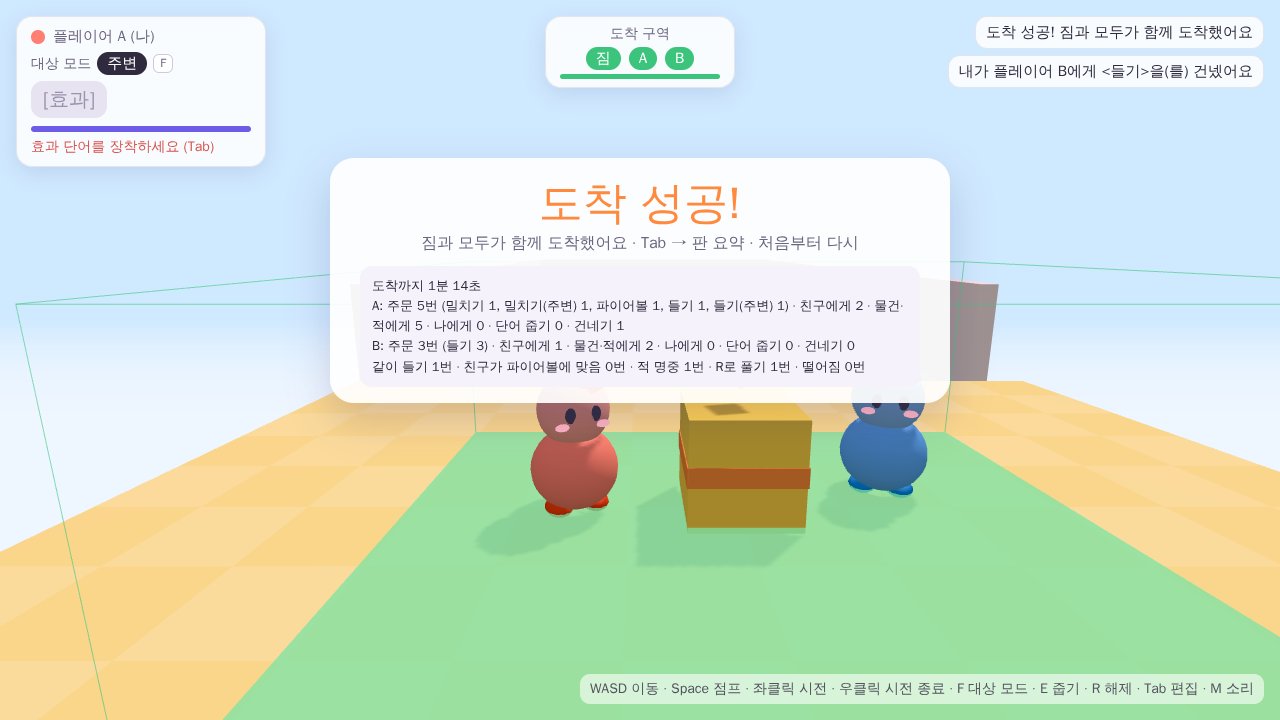
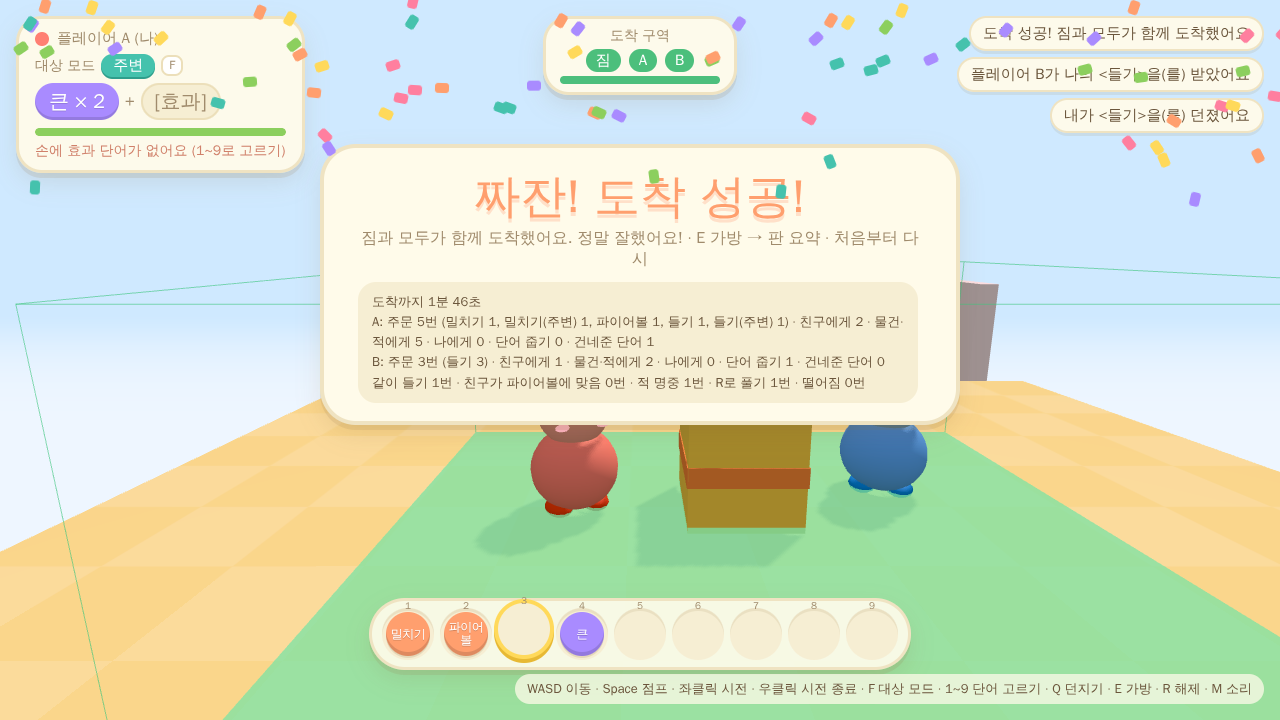
UI를 동물의 숲 스타일로: 크림색·둥글고 통통한 모양, 부드러운 말투
- 크림색 종이 패널·갈색 글씨·큰 둥근 모서리·통통한 버튼·말풍선 알림·노란 안내 띠
- 핫바·가방도 같은 톤(둥근 칸·둥근 단어 아이템, 마크 칸 구성·클릭 규칙은 그대로)
- 실패는 빨강 대신 살구색 "앗!", 새 단어를 주우면 칭찬, 도착하면 "짜잔!" + 꽃가루
- 첫 화면 문구를 친근하게, README·추가 요구사항 기록

Claude-Session: https://claude.ai/code/session_01KXHw84PPxeXVfj9vCymn7P

diff --git a/word-magic-coop/client/style.css b/word-magic-coop/client/style.css
@@ -1,59 +1,70 @@
+/* 동물의 숲 느낌: 크림색 종이, 갈색 글씨, 둥글고 통통한 모양, 부드러운 그림자. 실패도 겁주지 않게. */
 :root {
   --font: 'Jua', 'Apple SD Gothic Neo', 'Malgun Gothic', 'Noto Sans KR', 'WenQuanYi Zen Hei', system-ui, sans-serif;
-  --ink: #2f2a3d;
-  --muted: #6d6680;
-  --panel: rgba(255, 255, 255, 0.86);
-  --panel-border: rgba(70, 60, 110, 0.12);
-  --target: #9b7bff;
-  --action: #ff9a4d;
+  --ink: #6b563c;          /* 갈색 글씨 */
+  --muted: #a08b6c;
+  --cream: #fffbea;        /* 종이 */
+  --cream-2: #f6eed3;
+  --line: #ecdfba;
+  --panel: rgba(255, 251, 234, 0.95);
+  --panel-border: #efe3c2;
+  --shadow: 0 5px 0 rgba(150, 120, 70, 0.14), 0 10px 24px rgba(120, 90, 40, 0.12);
+  --teal: #45c2ad;
+  --teal-dark: #2f9e8c;
+  --yellow: #ffd95a;
+  --yellow-dark: #e7b934;
+  --leaf: #8ccf5e;
+  --target: #a98bff;       /* 수식 단어 */
+  --action: #ff9f6e;       /* 효과 단어 */
   --a: #ff7f73;
   --b: #5fa8ff;
-  --ok: #3cc47c;
-  --bad: #ff5a5a;
+  --ok: #4cbf7c;
+  --bad: #f0907c;          /* 빨강 대신 부드러운 살구색 */
 }
 
 * { box-sizing: border-box; }
-html, body { margin: 0; height: 100%; overflow: hidden; background: #cfe9ff; color: var(--ink); font-family: var(--font); }
+html, body { margin: 0; height: 100%; overflow: hidden; background: #bfe8f5; color: var(--ink); font-family: var(--font); }
 canvas#view { position: fixed; inset: 0; width: 100%; height: 100%; display: block; }
 [hidden] { display: none !important; }
 
 button {
-  font: inherit; font-size: 17px; border: 0; border-radius: 14px; padding: 10px 18px; cursor: pointer;
-  background: #6c5ce7; color: #fff; box-shadow: 0 3px 0 rgba(0, 0, 0, 0.15);
+  font: inherit; font-size: 17px; border: 0; border-radius: 999px; padding: 10px 22px; cursor: pointer;
+  background: var(--teal); color: #fff; box-shadow: 0 4px 0 var(--teal-dark); transition: transform 0.12s ease, box-shadow 0.12s ease;
 }
-button:hover { filter: brightness(1.08); }
-button:disabled { opacity: 0.5; cursor: default; }
-button.secondary { background: #ffffff; color: #6c5ce7; box-shadow: inset 0 0 0 2px #6c5ce7; }
+button:hover { transform: translateY(-2px) scale(1.03); }
+button:active { transform: translateY(2px); box-shadow: 0 2px 0 var(--teal-dark); }
+button:disabled { opacity: 0.5; cursor: default; transform: none; }
+button.secondary { background: var(--yellow); color: var(--ink); box-shadow: 0 4px 0 var(--yellow-dark); }
 .lobby-actions { display: flex; gap: 10px; justify-content: center; flex-wrap: wrap; }
 .join-form { display: flex; gap: 8px; justify-content: center; align-items: center; flex-wrap: wrap; margin-top: 14px; font-size: 15px; color: var(--muted); }
-.join-form input { font: inherit; font-size: 17px; width: 9.5em; padding: 8px 12px; border-radius: 12px; border: 2px solid #d9d2ee; background: #fff; color: var(--ink); text-align: center; letter-spacing: 0.15em; }
-.join-form input:focus { outline: none; border-color: #6c5ce7; }
-button:focus-visible, input:focus-visible { outline: 3px solid rgba(108, 92, 231, 0.45); outline-offset: 2px; }
-.room-info { margin-top: 16px; padding: 12px 14px; border-radius: 16px; background: #f5f2fb; display: flex; flex-direction: column; gap: 6px; }
+.join-form input { font: inherit; font-size: 17px; width: 9.5em; padding: 8px 12px; border-radius: 999px; border: 3px solid var(--line); background: #fff; color: var(--ink); text-align: center; letter-spacing: 0.15em; }
+.join-form input:focus { outline: none; border-color: var(--teal); }
+button:focus-visible, input:focus-visible { outline: 3px solid rgba(69, 194, 173, 0.5); outline-offset: 3px; }
+.room-info { margin-top: 16px; padding: 12px 14px; border-radius: 20px; background: var(--cream-2); display: flex; flex-direction: column; gap: 6px; }
 .room-code { font-size: 16px; color: var(--muted); }
 .room-code strong { font-size: 30px; color: var(--ink); letter-spacing: 0.2em; margin-left: 6px; font-family: ui-monospace, Menlo, Consolas, monospace; }
 .room-link { display: flex; gap: 6px; align-items: center; justify-content: center; flex-wrap: wrap; min-width: 0; }
 .room-link code { font-size: 13px; background: #fff; padding: 4px 8px; border-radius: 8px; overflow-wrap: anywhere; min-width: 0; user-select: all; }
-button.ghost { background: transparent; color: var(--muted); box-shadow: none; padding: 4px 10px; font-size: 14px; }
-button.danger { background: #ff7b7b; }
+button.ghost { background: var(--cream-2); color: var(--ink); box-shadow: 0 3px 0 var(--line); padding: 4px 12px; font-size: 14px; }
+button.danger { background: #f6a48f; box-shadow: 0 4px 0 #d9826d; }
 
-.screen { position: fixed; inset: 0; display: grid; place-items: center; padding: 16px; background: linear-gradient(180deg, rgba(207, 233, 255, 0.6), rgba(255, 236, 246, 0.75)); }
-.card { background: var(--panel); border: 1px solid var(--panel-border); border-radius: 24px; padding: 28px 30px; width: min(460px, 100%); box-shadow: 0 20px 50px rgba(60, 50, 120, 0.18); text-align: center; }
+.screen { position: fixed; inset: 0; display: grid; place-items: center; padding: 16px; background: radial-gradient(circle at 20% 10%, rgba(255, 255, 255, 0.55), transparent 40%), linear-gradient(180deg, rgba(191, 232, 245, 0.55), rgba(220, 244, 200, 0.7)); }
+.card { background: var(--cream); border: 4px solid var(--panel-border); border-radius: 36px; padding: 28px 30px; width: min(470px, 100%); box-shadow: var(--shadow); text-align: center; }
 .card.wide { width: min(640px, 100%); max-height: calc(100vh - 32px); overflow-y: auto; }
-.card h1 { margin: 0 0 4px; font-size: 34px; letter-spacing: -0.5px; }
+.card h1 { margin: 0 0 4px; font-size: 36px; letter-spacing: -0.5px; color: var(--ink); text-shadow: 0 3px 0 #f3e3b6; }
 .card h2 { margin: 0 0 4px; font-size: 26px; }
 .card h3 { margin: 18px 0 8px; font-size: 18px; text-align: left; }
 .sub { margin: 0 0 18px; color: var(--muted); font-size: 15px; }
 .status { font-size: 17px; min-height: 1.4em; }
 .note { color: var(--muted); font-size: 14px; }
 .seats { display: flex; justify-content: center; gap: 8px; margin-bottom: 12px; flex-wrap: wrap; }
-.seat { display: flex; align-items: center; gap: 6px; padding: 6px 12px; border-radius: 999px; background: #f2eefb; color: var(--muted); }
-.seat .dot { width: 10px; height: 10px; border-radius: 50%; background: #cfc8e0; }
+.seat { display: flex; align-items: center; gap: 6px; padding: 6px 12px; border-radius: 999px; background: var(--cream-2); color: var(--muted); }
+.seat .dot { width: 10px; height: 10px; border-radius: 50%; background: var(--line); }
 .seat.on .dot { background: var(--seat); }
 .seat.on { color: var(--ink); }
-.seat.me { outline: 2px solid #6c5ce7; }
+.seat.me { outline: 3px solid var(--teal); }
 .address { margin-top: 14px; font-size: 14px; color: var(--muted); line-height: 1.6; }
-.address code { font-family: ui-monospace, Menlo, Consolas, monospace; background: #f2eefb; padding: 2px 6px; border-radius: 6px; color: var(--ink); user-select: all; }
+.address code { font-family: ui-monospace, Menlo, Consolas, monospace; background: var(--cream-2); padding: 2px 6px; border-radius: 6px; color: var(--ink); user-select: all; }
 .howto { margin-top: 16px; text-align: left; font-size: 14px; color: var(--muted); }
 .howto summary { cursor: pointer; }
 .howto td { padding: 3px 8px 3px 0; vertical-align: top; }
@@ -63,20 +74,20 @@ button.danger { background: #ff7b7b; }
 
 /* HUD */
 #hud { position: fixed; inset: 0; pointer-events: none; }
-.panel { position: absolute; background: var(--panel); border: 1px solid var(--panel-border); border-radius: 16px; padding: 10px 14px; box-shadow: 0 6px 20px rgba(60, 50, 120, 0.12); }
+.panel { position: absolute; background: var(--panel); border: 3px solid var(--panel-border); border-radius: 26px; padding: 10px 16px; box-shadow: var(--shadow); }
 #spell { left: 16px; top: 16px; min-width: 250px; }
 .who { display: flex; align-items: center; gap: 8px; font-size: 15px; color: var(--muted); margin-bottom: 6px; }
 .chip { width: 14px; height: 14px; border-radius: 50%; display: inline-block; }
 .sentence { display: flex; gap: 6px; flex-wrap: wrap; }
-.word { display: inline-flex; align-items: center; padding: 5px 12px; border-radius: 12px; font-size: 20px; color: #fff; min-height: 34px; }
+.word { display: inline-flex; align-items: center; padding: 5px 14px; border-radius: 999px; font-size: 20px; color: #fff; min-height: 34px; box-shadow: inset 0 -3px 0 rgba(0, 0, 0, 0.12); text-shadow: 0 1px 0 rgba(0, 0, 0, 0.12); }
 .word.target, .word.mod { background: var(--target); }
 .word.action { background: var(--action); }
-.word.empty { background: #e7e3f1; color: #9a93ad; }
+.word.empty { background: var(--cream-2); color: var(--muted); box-shadow: inset 0 0 0 2px var(--line); text-shadow: none; }
 .word.big { font-size: 24px; padding: 8px 16px; min-width: 120px; justify-content: center; }
-.cooldown { margin-top: 8px; height: 6px; border-radius: 3px; background: #ece8f5; overflow: hidden; }
+.cooldown { margin-top: 8px; height: 8px; border-radius: 999px; background: var(--cream-2); overflow: hidden; }
 .mode-line { display: flex; align-items: center; gap: 6px; font-size: 14px; color: var(--muted); margin-bottom: 6px; }
-.mode-chip { background: #2f2a3d; color: #fff; border-radius: 999px; padding: 2px 10px; font-size: 15px; }
-.key { border: 1px solid #cfc8e0; border-radius: 6px; padding: 0 6px; font-size: 12px; color: var(--muted); background: #fff; }
+.mode-chip { background: var(--teal); color: #fff; border-radius: 999px; padding: 2px 12px; font-size: 15px; box-shadow: 0 2px 0 var(--teal-dark); }
+.key { border: 2px solid var(--line); border-radius: 8px; padding: 0 6px; font-size: 12px; color: var(--muted); background: #fff; }
 .plus-sm { align-self: center; color: var(--muted); font-size: 16px; }
 .mods { display: flex; flex-direction: column; gap: 6px; min-width: 180px; }
 .mod-row { display: flex; align-items: center; gap: 6px; pointer-events: auto; }
@@ -85,91 +96,98 @@ button.danger { background: #ff7b7b; }
 .mod-count small { color: var(--muted); font-size: 12px; }
 .mod-row button { font-size: 18px; padding: 2px 10px; }
 .spell-preview { margin: 12px 0 0; font-size: 16px; }
-#cooldown-bar { height: 100%; width: 0%; background: #6c5ce7; }
+#cooldown-bar { height: 100%; width: 0%; background: var(--leaf); border-radius: 999px; }
 .preview-note { margin-top: 6px; font-size: 14px; color: var(--muted); min-height: 1.2em; }
 .preview-note.ok { color: var(--ok); }
-.preview-note.bad { color: #d9534f; }
+.preview-note.bad { color: #d0806a; }
 
 #goal { top: 16px; left: 50%; transform: translateX(-50%); text-align: center; padding: 8px 14px; }
 .goal-title { font-size: 14px; color: var(--muted); }
 .goal-items { display: flex; gap: 8px; justify-content: center; margin: 4px 0; }
-.goal-items span { padding: 2px 10px; border-radius: 999px; background: #eee9f7; color: #9a93ad; font-size: 15px; }
+.goal-items span { padding: 2px 10px; border-radius: 999px; background: var(--cream-2); color: var(--muted); font-size: 15px; }
 .goal-items span.in { background: var(--ok); color: #fff; }
-.goal-bar { height: 5px; width: 160px; border-radius: 3px; background: #ece8f5; overflow: hidden; }
+.goal-bar { height: 8px; width: 160px; border-radius: 999px; background: var(--cream-2); overflow: hidden; }
 #goal-fill { height: 100%; width: 0%; background: var(--ok); }
-#guide { position: absolute; top: 104px; left: 50%; transform: translateX(-50%); background: rgba(47, 42, 61, 0.82); color: #fff; padding: 7px 14px; border-radius: 999px; font-size: 15px; white-space: nowrap; }
-#guide .key { margin-left: 6px; background: rgba(255, 255, 255, 0.15); color: #fff; border-color: rgba(255, 255, 255, 0.35); }
+#guide { position: absolute; top: 108px; left: 50%; transform: translateX(-50%); background: var(--yellow); color: var(--ink); padding: 8px 18px 8px 34px; border-radius: 999px; font-size: 16px; white-space: nowrap; box-shadow: 0 4px 0 var(--yellow-dark), 0 10px 20px rgba(120, 90, 40, 0.15); animation: bob 2.4s ease-in-out infinite; }
+#guide::before { content: ''; position: absolute; left: 12px; top: 50%; width: 14px; height: 14px; margin-top: -7px; background: var(--leaf); border-radius: 0 70% 0 70%; transform: rotate(-20deg); }
+#guide .key { margin-left: 6px; border-color: var(--yellow-dark); background: #fff7cf; }
 
 #log { position: absolute; right: 16px; top: 16px; margin: 0; padding: 0; list-style: none; width: 320px; display: flex; flex-direction: column; gap: 6px; align-items: flex-end; }
-#log li { background: var(--panel); border: 1px solid var(--panel-border); border-radius: 12px; padding: 6px 10px; font-size: 15px; animation: fadein 0.2s ease; transition: opacity 0.6s; }
+#log li { background: var(--panel); border: 2px solid var(--panel-border); border-radius: 18px; padding: 6px 12px; font-size: 15px; box-shadow: 0 3px 0 rgba(150, 120, 70, 0.12); animation: fadein 0.25s ease; transition: opacity 0.6s; }
 #log li.old { opacity: 0; }
 
-#crosshair { position: absolute; left: 50%; top: 50%; width: 18px; height: 18px; margin: -9px 0 0 -9px; border-radius: 50%; border: 3px solid rgba(255, 255, 255, 0.95); box-shadow: 0 0 0 2px rgba(40, 30, 70, 0.35); }
+#crosshair { position: absolute; left: 50%; top: 50%; width: 18px; height: 18px; margin: -9px 0 0 -9px; border-radius: 50%; border: 3px solid rgba(255, 255, 255, 0.95); box-shadow: 0 0 0 2px rgba(107, 86, 60, 0.35); transition: transform 0.12s ease; }
 #crosshair.ok { border-color: #ffe066; transform: scale(1.25); }
 #crosshair.bad { border-color: var(--bad); }
-#crosshair.blocked { border-color: #b8b2c8; }
+#crosshair.blocked { border-color: #d6cbb0; }
 #crosshair.fire { border-color: #ff8a3d; }
 
 #badges { position: absolute; left: 16px; bottom: 16px; display: flex; gap: 8px; }
-/* 핫바(마인크래프트식, 화면 아래 9칸) */
-#hotbar { position: absolute; left: 50%; bottom: 52px; transform: translateX(-50%); display: flex; gap: 0; padding: 3px; background: rgba(30, 28, 36, 0.55); border: 2px solid rgba(20, 18, 26, 0.7); border-radius: 4px; }
-#hotbar .mc-slot { width: 54px; height: 54px; background: rgba(139, 139, 139, 0.55); }
-#hotbar .mc-slot.sel { outline: 3px solid #fff; outline-offset: -1px; z-index: 1; }
+/* 핫바: 마인크래프트처럼 9칸, 모양은 동숲처럼 둥글고 통통하게 */
+#hotbar { position: absolute; left: 50%; bottom: 50px; transform: translateX(-50%); display: flex; gap: 6px; padding: 7px 10px; background: rgba(255, 251, 234, 0.92); border: 3px solid var(--panel-border); border-radius: 999px; box-shadow: var(--shadow); }
+#hotbar .mc-slot { width: 52px; height: 52px; border-radius: 50%; }
+#hotbar .mc-slot.sel { box-shadow: 0 0 0 4px var(--yellow), 0 4px 0 4px var(--yellow-dark); transform: translateY(-5px); z-index: 1; }
 
-/* 마인크래프트식 칸·아이템 */
-.mc-slot { position: relative; width: 52px; height: 52px; box-sizing: border-box; background: #8b8b8b; border: 2px solid; border-color: #373737 #fff #fff #373737; display: grid; place-items: center; user-select: none; }
-.mc-slot.hover { background: #a9a9a9; }
-.mc-slot.hand { border-color: #373737 #ffe066 #ffe066 #373737; }
-.mc-item { position: relative; width: 42px; height: 42px; border-radius: 6px; display: grid; place-items: center; color: #fff; font-size: 12px; font-weight: 700; line-height: 1.05; text-align: center; letter-spacing: -0.5px; box-shadow: inset -2px -2px 0 rgba(0, 0, 0, 0.25), inset 2px 2px 0 rgba(255, 255, 255, 0.35); pointer-events: none; }
+/* 칸·단어 아이템(가방·핫바 공용) */
+.mc-slot { position: relative; width: 52px; height: 52px; box-sizing: border-box; background: var(--cream-2); border-radius: 16px; box-shadow: inset 0 3px 0 rgba(150, 120, 70, 0.12); display: grid; place-items: center; user-select: none; transition: transform 0.12s ease, background 0.12s; }
+.mc-slot.hover { background: #fff2b8; transform: scale(1.06); }
+.mc-slot.hand { box-shadow: inset 0 0 0 3px var(--yellow); }
+.mc-item { position: relative; width: 44px; height: 44px; border-radius: 50%; display: grid; place-items: center; color: #fff; font-size: 12px; line-height: 1.05; text-align: center; letter-spacing: -0.5px; text-shadow: 0 1px 0 rgba(0, 0, 0, 0.18); box-shadow: inset 0 -4px 0 rgba(0, 0, 0, 0.13), 0 2px 0 rgba(150, 120, 70, 0.18); pointer-events: none; }
 .mc-item.effect { background: var(--action); }
 .mc-item.mod { background: var(--target); }
-.mc-count { position: absolute; right: -3px; bottom: -4px; font-size: 15px; font-weight: 800; color: #fff; text-shadow: 2px 2px 0 #3f3f3f; }
-.mc-num { position: absolute; left: 3px; top: 1px; font-size: 10px; font-weight: 700; color: rgba(255, 255, 255, 0.85); text-shadow: 1px 1px 0 #3f3f3f; pointer-events: none; }
-.badge { background: var(--panel); border-radius: 999px; padding: 6px 12px; font-size: 15px; border: 1px solid var(--panel-border); }
+.mc-count { position: absolute; right: -6px; bottom: -5px; min-width: 20px; height: 20px; padding: 0 5px; box-sizing: border-box; border-radius: 999px; background: #fff; color: var(--ink); font-size: 13px; line-height: 20px; text-shadow: none; box-shadow: 0 2px 0 var(--line); }
+.mc-num { position: absolute; left: 50%; top: -9px; transform: translateX(-50%); font-size: 10px; color: var(--muted); pointer-events: none; }
+.badge { background: var(--panel); border-radius: 999px; padding: 6px 14px; font-size: 15px; border: 2px solid var(--panel-border); box-shadow: 0 3px 0 rgba(150, 120, 70, 0.12); }
 .badge.float { color: #1a8fb5; }
-.badge.shield { color: #6c5ce7; }
+.badge.shield { color: #7a62d6; }
 .badge.ext { color: #d9731f; }
 
 #prompt { position: absolute; left: 50%; top: calc(50% + 46px); transform: translateX(-50%); background: rgba(47, 42, 61, 0.78); color: #fff; padding: 6px 14px; border-radius: 999px; font-size: 16px; opacity: 0; transition: opacity 0.15s; white-space: nowrap; }
 #prompt.show { opacity: 1; }
-#toast { position: absolute; left: 50%; bottom: 134px; transform: translateX(-50%); background: rgba(255, 255, 255, 0.95); color: #c0392b; padding: 8px 16px; border-radius: 999px; font-size: 17px; opacity: 0; transition: opacity 0.2s; white-space: nowrap; box-shadow: 0 4px 16px rgba(0, 0, 0, 0.12); }
-#toast.show { opacity: 1; }
-#toast.info { color: var(--ink); }
-#keys { position: absolute; right: 16px; bottom: 16px; font-size: 14px; color: rgba(47, 42, 61, 0.8); background: rgba(255, 255, 255, 0.6); padding: 6px 10px; border-radius: 10px; }
-#lock-hint { position: absolute; left: 50%; top: 66%; transform: translateX(-50%); background: rgba(108, 92, 231, 0.9); color: #fff; padding: 10px 18px; border-radius: 999px; font-size: 17px; }
-#clear-banner { position: absolute; left: 50%; top: 22%; transform: translateX(-50%); text-align: center; background: rgba(255, 255, 255, 0.92); padding: 16px 30px; border-radius: 24px; box-shadow: 0 16px 40px rgba(60, 50, 120, 0.2); animation: pop 0.4s ease; }
-#clear-banner .big { font-size: 44px; color: #ff8a3d; }
+/* 말풍선 알림: 실패도 빨강 대신 부드럽게 */
+#toast { position: absolute; left: 50%; bottom: 142px; transform: translateX(-50%) translateY(6px); background: #fff; color: #c46f58; padding: 10px 20px; border-radius: 22px; font-size: 17px; opacity: 0; transition: opacity 0.2s, transform 0.2s; white-space: nowrap; border: 3px solid #f6d9cf; box-shadow: var(--shadow); }
+#toast::after { content: ''; position: absolute; left: 50%; bottom: -11px; width: 16px; height: 16px; margin-left: -8px; background: #fff; border-right: 3px solid #f6d9cf; border-bottom: 3px solid #f6d9cf; transform: rotate(45deg); }
+#toast.show { opacity: 1; transform: translateX(-50%) translateY(0); }
+#toast.info { color: var(--ink); border-color: var(--panel-border); }
+#toast.info::after { border-color: var(--panel-border); }
+#keys { position: absolute; right: 16px; bottom: 16px; font-size: 13px; color: var(--ink); background: rgba(255, 251, 234, 0.75); padding: 6px 12px; border-radius: 999px; }
+#lock-hint { position: absolute; left: 50%; top: 66%; transform: translateX(-50%); background: var(--teal); color: #fff; padding: 10px 22px; border-radius: 999px; font-size: 17px; box-shadow: 0 4px 0 var(--teal-dark); animation: bob 2s ease-in-out infinite; }
+#clear-banner { position: absolute; left: 50%; top: 20%; transform: translateX(-50%); text-align: center; background: var(--cream); border: 4px solid var(--panel-border); padding: 18px 34px; border-radius: 36px; box-shadow: var(--shadow); animation: pop 0.45s cubic-bezier(0.34, 1.56, 0.64, 1); }
+#clear-banner .big { font-size: 46px; color: #ff9f6e; text-shadow: 0 4px 0 #ffe0c9; }
 #clear-banner .small { font-size: 16px; color: var(--muted); }
-#clear-summary { margin: 12px 0 0; padding: 10px 12px; max-width: 560px; text-align: left; font-family: inherit; font-size: 13px; line-height: 1.55; color: var(--ink); background: #f5f2fb; border-radius: 12px; white-space: pre-wrap; }
+#clear-summary { margin: 12px 0 0; padding: 10px 14px; max-width: 560px; text-align: left; font-family: inherit; font-size: 13px; line-height: 1.55; color: var(--ink); background: var(--cream-2); border-radius: 18px; white-space: pre-wrap; }
 #clear-summary:empty { display: none; }
 .summary-box { margin-top: 12px; font-size: 14px; color: var(--muted); }
 .summary-box summary { cursor: pointer; }
-.summary-box pre { margin: 8px 0; padding: 10px; background: #f5f2fb; border-radius: 12px; font-family: inherit; font-size: 14px; line-height: 1.5; color: var(--ink); white-space: pre-wrap; }
+.summary-box pre { margin: 8px 0; padding: 10px 12px; background: var(--cream-2); border-radius: 16px; font-family: inherit; font-size: 14px; line-height: 1.5; color: var(--ink); white-space: pre-wrap; }
 
-/* 가방 창(마인크래프트식) */
-#editor { position: fixed; inset: 0; display: grid; place-items: center; background: rgba(16, 12, 28, 0.45); padding: 16px; }
-.mc-panel { background: #c6c6c6; border: 3px solid; border-color: #fff #555 #555 #fff; border-radius: 6px; padding: 14px 16px; box-shadow: 0 0 0 2px #000, 0 20px 50px rgba(0, 0, 0, 0.35); color: #3f3f3f; max-width: calc(100vw - 32px); }
-.mc-title { font-size: 15px; font-weight: 700; color: #3f3f3f; margin: 2px 0 6px; }
-.mc-sub { font-weight: 400; font-size: 13px; color: #5a5a5a; margin-left: 6px; }
-.mc-spell { display: flex; align-items: flex-end; gap: 10px; margin-bottom: 12px; }
-.mc-col { display: flex; flex-direction: column; gap: 4px; }
+/* 가방 창: 마인크래프트 칸 구성·클릭 규칙 + 동숲 주머니 느낌 */
+#editor { position: fixed; inset: 0; display: grid; place-items: center; background: rgba(255, 244, 214, 0.35); backdrop-filter: blur(2px); padding: 16px; }
+.mc-panel { background: var(--cream); border: 4px solid var(--panel-border); border-radius: 36px; padding: 16px 20px 18px; box-shadow: var(--shadow); color: var(--ink); max-width: calc(100vw - 32px); max-height: calc(100vh - 32px); overflow-y: auto; animation: popin 0.3s cubic-bezier(0.34, 1.56, 0.64, 1); }
+.mc-title { display: inline-block; font-size: 16px; color: #fff; background: var(--teal); padding: 3px 14px; border-radius: 999px; box-shadow: 0 3px 0 var(--teal-dark); margin: 2px 0 10px; }
+.mc-sub { font-size: 13px; color: #e8fff9; margin-left: 6px; }
+.mc-spell { display: flex; align-items: flex-end; gap: 10px; margin-bottom: 14px; padding: 10px 12px; background: #fff; border: 3px dashed var(--line); border-radius: 26px; }
+.mc-col { display: flex; flex-direction: column; gap: 5px; }
 .mc-col.grow { flex: 1; min-width: 150px; }
-.mc-label { font-size: 12px; color: #4a4a4a; }
-.mc-row { display: flex; }
-.mc-op { font-size: 26px; color: #4a4a4a; padding-bottom: 10px; }
-.mc-result { min-height: 52px; box-sizing: border-box; padding: 6px 10px; background: #8b8b8b; border: 2px solid; border-color: #373737 #fff #fff #373737; color: #fff; font-size: 16px; font-weight: 700; display: flex; align-items: center; text-shadow: 1px 1px 0 #3f3f3f; }
-.mc-grid { display: grid; grid-template-columns: repeat(9, 52px); }
-.mc-hotrow { margin-top: 10px; }
-.mc-help { margin-top: 10px; font-size: 12px; color: #4a4a4a; max-width: 468px; line-height: 1.5; }
-.mc-cursor { position: fixed; left: 0; top: 0; pointer-events: none; transform: translate(-50%, -50%); z-index: 10; }
-.mc-tip { position: fixed; z-index: 11; pointer-events: none; background: rgba(16, 0, 16, 0.94); border: 2px solid #2d0a63; color: #fff; padding: 6px 9px; border-radius: 4px; font-size: 13px; line-height: 1.45; white-space: nowrap; }
-.mc-tip b { color: #ffe066; }
-.mc-panel .summary-box { color: #4a4a4a; }
-.mc-panel .summary-box pre { background: #b3b3b3; }
+.mc-label { font-size: 12px; color: var(--muted); }
+.mc-row { display: flex; gap: 4px; }
+.mc-op { font-size: 26px; color: var(--muted); padding-bottom: 10px; }
+.mc-result { min-height: 52px; box-sizing: border-box; padding: 6px 16px; background: var(--yellow); color: var(--ink); font-size: 17px; display: flex; align-items: center; border-radius: 999px; box-shadow: 0 4px 0 var(--yellow-dark); }
+.mc-grid { display: grid; grid-template-columns: repeat(9, 52px); gap: 4px; width: max-content; margin: 0 auto; }
+.mc-hotrow { margin-top: 12px; padding-top: 12px; border-top: 3px dotted var(--line); }
+.mc-help { margin: 12px auto 0; font-size: 12px; color: var(--muted); max-width: 500px; line-height: 1.55; text-align: center; }
+.mc-cursor { position: fixed; left: 0; top: 0; pointer-events: none; transform: translate(-50%, -50%) scale(1.1); z-index: 10; }
+.mc-tip { position: fixed; z-index: 11; pointer-events: none; background: #fff; border: 3px solid var(--panel-border); color: var(--ink); padding: 7px 12px; border-radius: 16px; font-size: 13px; line-height: 1.45; white-space: nowrap; box-shadow: var(--shadow); }
+.mc-tip b { color: #e08a5a; }
 .editor-actions { display: flex; justify-content: space-between; gap: 10px; margin-top: 18px; flex-wrap: wrap; }
 
 @keyframes fadein { from { opacity: 0; transform: translateY(-4px); } to { opacity: 1; transform: none; } }
-@keyframes pop { from { transform: translateX(-50%) scale(0.8); opacity: 0; } to { transform: translateX(-50%) scale(1); opacity: 1; } }
+@keyframes pop { from { transform: translateX(-50%) scale(0.7); opacity: 0; } to { transform: translateX(-50%) scale(1); opacity: 1; } }
+@keyframes popin { from { transform: scale(0.85); opacity: 0; } to { transform: scale(1); opacity: 1; } }
+@keyframes bob { 0%, 100% { margin-top: 0; } 50% { margin-top: -3px; } }
+/* 도착 축하 꽃가루 */
+.confetti { position: fixed; top: -20px; width: 10px; height: 14px; border-radius: 3px; pointer-events: none; z-index: 20; animation: fall linear forwards; }
+@keyframes fall { to { transform: translateY(110vh) rotate(720deg); } }
 
 @media (max-width: 760px) {
   #log { width: 220px; }

diff --git a/word-magic-coop/client/main.js b/word-magic-coop/client/main.js
@@ -383,8 +383,24 @@ function log(text) {
 }
 
 let toastTimer;
+// 도착 축하 꽃가루(동숲처럼 칭찬은 크게)
+function confetti() {
+  const colors = ['#ff9f6e', '#a98bff', '#45c2ad', '#ffd95a', '#8ccf5e', '#ff7f9f'];
+  for (let i = 0; i < 70; i++) {
+    const c = document.createElement('div');
+    c.className = 'confetti';
+    c.style.left = `${Math.random() * 100}vw`;
+    c.style.background = colors[i % colors.length];
+    c.style.animationDuration = `${2.2 + Math.random() * 1.8}s`;
+    c.style.animationDelay = `${Math.random() * 0.6}s`;
+    document.body.append(c);
+    setTimeout(() => c.remove(), 5000);
+  }
+}
+
+// 말풍선 알림. 실패도 겁주지 않게 '앗!'으로 부드럽게 시작한다(동물의 숲 말투).
 function toast(text, kind = 'bad') {
-  $('toast').textContent = text;
+  $('toast').textContent = kind === 'bad' && !/^앗/.test(text) ? `앗! ${text}` : text;
   $('toast').className = `show ${kind}`;
   clearTimeout(toastTimer);
   toastTimer = setTimeout(() => { $('toast').className = kind; }, 1600);
@@ -569,7 +585,8 @@ function onEvent(e) {
         log(`${whoSubj(e.by)} ${who(e.from)}의 ${wlabel(e.word)}을(를) 받았어요`);
         if (e.by === S.me) toast(`${who(e.from)}에게서 ${wlabel(e.word)}을(를) 받았어요${e.equipped ? ' (바로 장착)' : ''}`, 'info');
       } else {
-        log(`${whoSubj(e.by)} ${wlabel(e.word)} 단어를 주웠어요${e.equipped ? ' (바로 장착)' : ''}`);
+        log(`${whoSubj(e.by)} ${wlabel(e.word)} 단어를 주웠어요${e.equipped ? ' (바로 손에 듦)' : ''}`);
+        if (e.by === S.me) toast(`새 단어를 찾았어요! ${wlabel(e.word)}${WORDS[e.word].kind === KIND.MOD ? ' · E 가방에서 수식 칸에 넣어 봐요' : ''}`, 'info');
       }
       break;
     case 'throw':
@@ -595,6 +612,7 @@ function onEvent(e) {
       break;
     case 'clear':
       log('도착 성공! 짐과 모두가 함께 도착했어요');
+      confetti();
       break;
     case 'join':
       if (e.id !== S.me) log(`플레이어 ${e.id}가 들어왔어요`);

diff --git a/word-magic-coop/client/index.html b/word-magic-coop/client/index.html
@@ -16,7 +16,7 @@
   <section id="lobby" class="screen">
     <div class="card">
       <h1>단어로 만드는 마법</h1>
-      <p class="sub">2~6인 협동 프로토타입 · 효과 + 수식 단어, 대상은 모드 전환</p>
+      <p class="sub">친구들과 단어를 모아 마법을 만들어 함께 놀아요!</p>
       <div class="seats" aria-label="참가 자리 (최대 6명)"></div>
       <p id="lobby-status" class="status">호스트에 접속해 2명 이상 모이면 시작해요(최대 6명).</p>
       <p id="lobby-note" class="note" hidden></p>
@@ -95,8 +95,8 @@
     <div id="lock-hint">화면을 클릭하면 조작을 시작해요</div>
 
     <div id="clear-banner" hidden>
-      <div class="big">도착 성공!</div>
-      <div class="small">짐과 모두가 함께 도착했어요 · Tab → 판 요약 · 처음부터 다시</div>
+      <div class="big">짜잔! 도착 성공!</div>
+      <div class="small">짐과 모두가 함께 도착했어요. 정말 잘했어요! · E 가방 → 판 요약 · 처음부터 다시</div>
       <pre id="clear-summary"></pre>
     </div>
   </section>

diff --git a/word-magic-coop/client/render.js b/word-magic-coop/client/render.js
@@ -5,7 +5,7 @@ import { WORDS } from '../shared/words.js';
 import { makeLabel } from './labels.js';
 
 const ACTION_COLOR = { PUSH: '#ff9a4d', PULL: '#3fcf8e', LIFT: '#4fd6ff', FIREBALL: '#ff5a2a' };
-const KIND_COLOR = { effect: '#ff9a4d', mod: '#9b7bff' }; // 효과 단어 / 수식 단어
+const KIND_COLOR = { effect: '#ff9f6e', mod: '#a98bff' }; // 효과 단어 / 수식 단어(HUD와 같은 색)
 const SCORCH = new THREE.Color('#3a2a22');
 const now = () => performance.now() / 1000;
 

diff --git a/word-magic-coop/docs/design_additions.md b/word-magic-coop/docs/design_additions.md
@@ -68,3 +68,15 @@ v0.3 07장의 미정 사항에 대해 Claude가 제안하고 사용자가 승인
 | 아이템 개수는 오른쪽 아래 숫자, 마우스 올리면 이름 | 같음 |
 
 다른 점: 창을 닫을 때 커서에 든 단어는 던지지 않고 가방으로 돌려놓는다. 끌어서 나눠 놓기·두 번 클릭 모으기는 아직 없다.
+
+## 2026-10-01 — UI 기준: 동물의 숲 스타일
+
+사용자 요청: "전체적인 UI 기준은 동물의 숲 스타일… 캐주얼하고 귀여워한다는 얘기야. 그리고 심리적으로."
+
+- 모양: 크림색 종이 패널, 갈색 글씨, 큰 둥근 모서리, 아래쪽이 두꺼운 통통한 버튼, 말풍선 알림(꼬리 달림), 노란 안내 띠(잎사귀 표시), 둥근 단어 아이템.
+- 가방은 마인크래프트 칸 구성·클릭 규칙을 그대로 두고 겉모양만 이 톤으로.
+- 심리적으로(마음 편하게):
+  - 실패·거절은 빨강 경고 대신 살구색 말풍선, 문장 앞에 "앗!"을 붙여 가볍게.
+  - 새 단어를 주우면 "새 단어를 찾았어요!"로 칭찬하고 다음 할 일을 알려 준다.
+  - 도착하면 "짜잔! 도착 성공! 정말 잘했어요!" + 꽃가루.
+  - 첫 화면 문구를 개발 용어 대신 "친구들과 단어를 모아 마법을 만들어 함께 놀아요!"로.

diff --git a/word-magic-coop/README.md b/word-magic-coop/README.md
@@ -10,6 +10,7 @@
 - **지속형 마법은 시전자가 '시전 종료'로 직접 끝냅니다**(들기면 놓기, 키는 임시로 우클릭). 친구가 건 마법에서 벗어나는 R과는 별개입니다.
 - **마인크래프트식 가방(E):** 위에 **주문 칸**([손에 든 효과] + [수식 칸 5개] → [결과]), 아래 **가방 27칸 + 핫바 9칸**. 마크와 같은 클릭 규칙(좌·우·Shift 클릭, 칸 위에서 1~9·Q, 창 밖 클릭)으로 단어를 옮기고 주문을 짭니다.
 - **손 = 고른 핫바 칸**(1~9·휠). **Q로 던지면 친구 몸에 닿아 자동으로 주워집니다.** 바닥의 단어도 걸어가 닿으면 줍습니다(같은 묶음 → 핫바 → 가방 순). 수식은 주워도 자동으로 붙지 않고, 가방에서 수식 칸에 넣어야 붙습니다.
+- **UI는 동물의 숲 느낌**: 크림색 종이, 갈색 글씨, 둥글고 통통한 버튼·칸, 말풍선 알림. 실패는 빨간 경고 대신 "앗!"으로 부드럽게, 새 단어를 찾으면 칭찬, 도착하면 꽃가루.
 - **플레이 편의:** '처음 해보기' 안내, 효과음, 판 요약(도착 시·가방에서 복사 가능).
 - 적(시험용 허수아비)은 피해를 받고, 친구가 맞으면 체력 대신 **디버프**를 받습니다.
 
